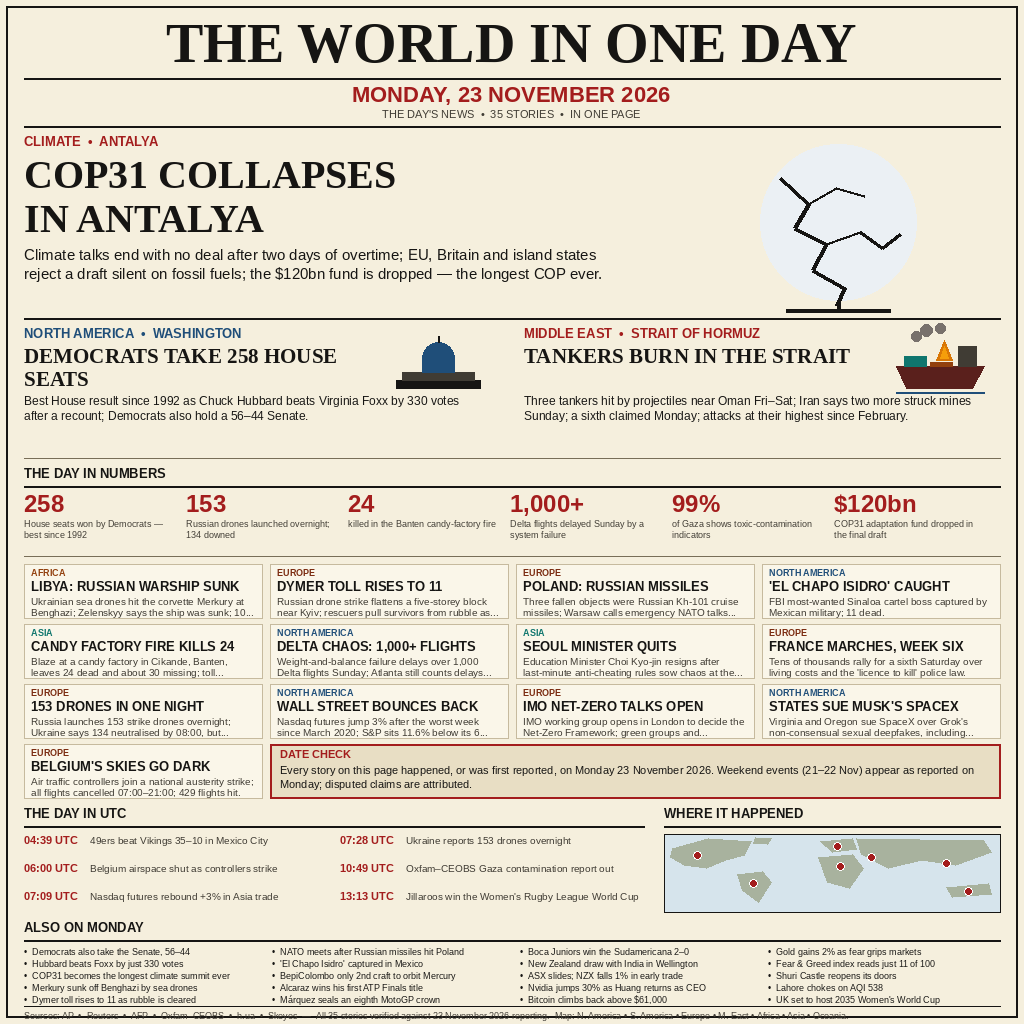
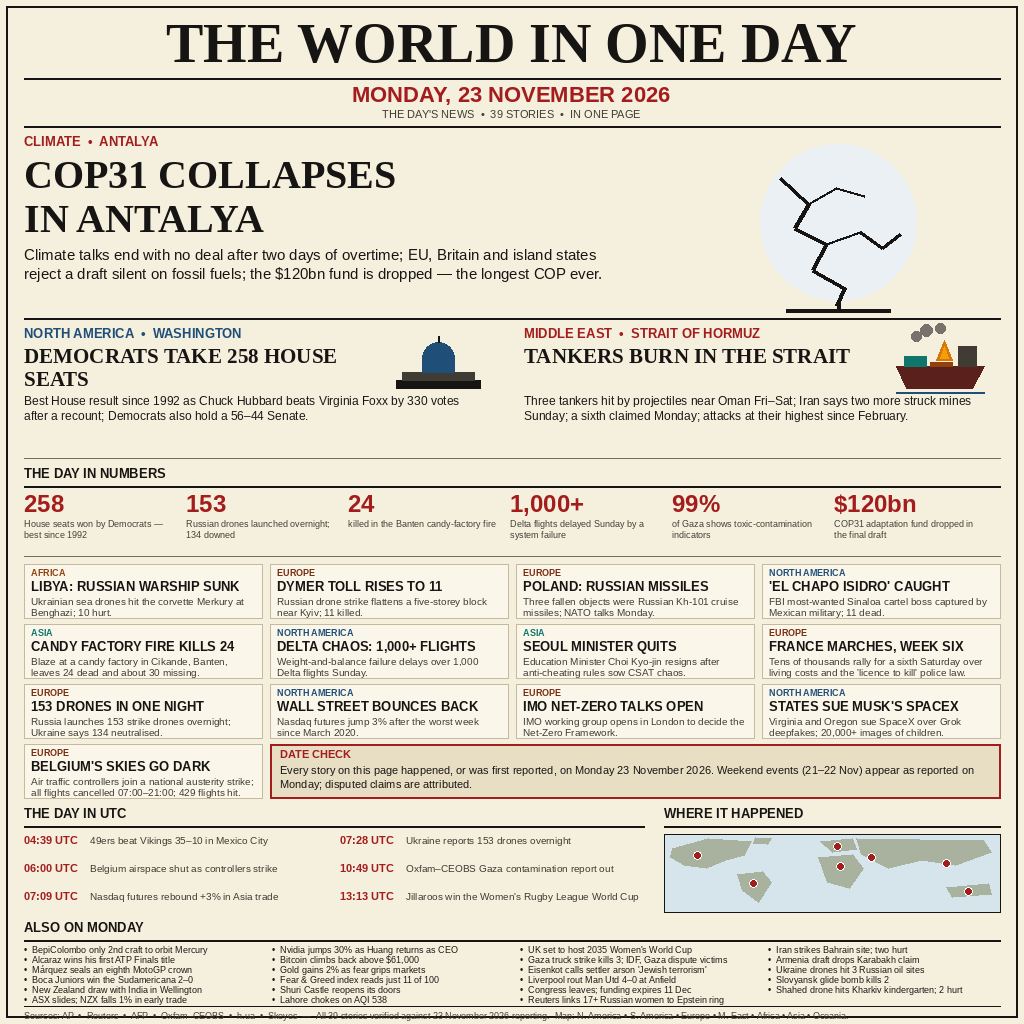
news-image-20261123 r3 fix: 39 stories, 10 decks closed, 7 dup ALSO ON removed
- ALSO ON: remove 7 duplicates of big/card stories; add 10 missing
  fact-sheet stories (#14 Gaza, #15 Eisenkot, #17 Liverpool, #20 Congress,
  #21 Epstein, #23 Iran-Bahrain, #26 Armenia, #28 Ukraine oil, #29 Slovyansk,
  #30 Kharkiv kindergarten) -> 23 items, 6 rows
- Close 10 truncated card decks to complete sentences (2 lines, end '.')
- Masthead + footer + README claim corrected 35 -> 39 stories
  (3 big + 13 cards + 23 ALSO ON lines, line-count method)

diff --git a/draw_poster.py b/draw_poster.py
@@ -182,41 +182,37 @@ BIG = [
 
 CARDS = [
     ("AFRICA", "LIBYA: RUSSIAN WARSHIP SUNK",
-     "Ukrainian sea drones hit the corvette Merkury at Benghazi; Zelenskyy "
-     "says the ship was sunk; 10 hurt."),
+     "Ukrainian sea drones hit the corvette Merkury at Benghazi; 10 hurt."),
     ("EUROPE", "DYMER TOLL RISES TO 11",
-     "Russian drone strike flattens a five-storey block near Kyiv; rescuers "
-     "pull survivors from rubble as the toll climbs to 11."),
+     "Russian drone strike flattens a five-storey block near Kyiv; "
+     "11 killed."),
     ("EUROPE", "POLAND: RUSSIAN MISSILES",
-     "Three fallen objects were Russian Kh-101 cruise missiles; Warsaw "
-     "calls emergency NATO talks for Monday."),
+     "Three fallen objects were Russian Kh-101 cruise missiles; NATO "
+     "talks Monday."),
     ("NORTH AMERICA", "'EL CHAPO ISIDRO' CAUGHT",
      "FBI most-wanted Sinaloa cartel boss captured by Mexican military; "
      "11 dead."),
     ("ASIA", "CANDY FACTORY FIRE KILLS 24",
      "Blaze at a candy factory in Cikande, Banten, leaves 24 dead and about "
-     "30 missing; toll confirmed Monday."),
+     "30 missing."),
     ("NORTH AMERICA", "DELTA CHAOS: 1,000+ FLIGHTS",
-     "Weight-and-balance failure delays over 1,000 Delta flights Sunday; "
-     "Atlanta still counts delays Monday."),
+     "Weight-and-balance failure delays over 1,000 Delta flights Sunday."),
     ("ASIA", "SEOUL MINISTER QUITS",
-     "Education Minister Choi Kyo-jin resigns after last-minute anti-"
-     "cheating rules sow chaos at the CSAT exam."),
+     "Education Minister Choi Kyo-jin resigns after anti-cheating rules "
+     "sow CSAT chaos."),
     ("EUROPE", "FRANCE MARCHES, WEEK SIX",
      "Tens of thousands rally for a sixth Saturday over living costs and "
      "the 'licence to kill' police law."),
     ("EUROPE", "153 DRONES IN ONE NIGHT",
      "Russia launches 153 strike drones overnight; Ukraine says 134 "
-     "neutralised by 08:00, but impacts hit 11 sites."),
+     "neutralised."),
     ("NORTH AMERICA", "WALL STREET BOUNCES BACK",
-     "Nasdaq futures jump 3% after the worst week since March 2020; S&P "
-     "sits 11.6% below its 6 October record."),
+     "Nasdaq futures jump 3% after the worst week since March 2020."),
     ("EUROPE", "IMO NET-ZERO TALKS OPEN",
-     "IMO working group opens in London to decide the Net-Zero Framework; "
-     "green groups and shipowners demand adoption."),
+     "IMO working group opens in London to decide the Net-Zero Framework."),
     ("NORTH AMERICA", "STATES SUE MUSK'S SPACEX",
-     "Virginia and Oregon sue SpaceX over Grok's non-consensual sexual "
-     "deepfakes, including 20,000+ images of children."),
+     "Virginia and Oregon sue SpaceX over Grok deepfakes; 20,000+ images "
+     "of children."),
     ("EUROPE", "BELGIUM'S SKIES GO DARK",
      "Air traffic controllers join a national austerity strike; all flights "
      "cancelled 07:00–21:00; 429 flights hit."),
@@ -241,13 +237,6 @@ TIMELINE = [
 ]
 
 ALSO_ON = [
-    "Democrats also take the Senate, 56–44",
-    "Hubbard beats Foxx by just 330 votes",
-    "COP31 becomes the longest climate summit ever",
-    "Merkury sunk off Benghazi by sea drones",
-    "Dymer toll rises to 11 as rubble is cleared",
-    "NATO meets after Russian missiles hit Poland",
-    "'El Chapo Isidro' captured in Mexico",
     "BepiColombo only 2nd craft to orbit Mercury",
     "Alcaraz wins his first ATP Finals title",
     "Márquez seals an eighth MotoGP crown",
@@ -261,6 +250,16 @@ ALSO_ON = [
     "Shuri Castle reopens its doors",
     "Lahore chokes on AQI 538",
     "UK set to host 2035 Women's World Cup",
+    "Gaza truck strike kills 3; IDF, Gaza dispute victims",
+    "Eisenkot calls settler arson 'Jewish terrorism'",
+    "Liverpool rout Man Utd 4–0 at Anfield",
+    "Congress leaves; funding expires 11 Dec",
+    "Reuters links 17+ Russian women to Epstein ring",
+    "Iran strikes Bahrain site; two hurt",
+    "Armenia draft drops Karabakh claim",
+    "Ukraine drones hit 3 Russian oil sites",
+    "Slovyansk glide bomb kills 2",
+    "Shahed drone hits Kharkiv kindergarten; 2 hurt",
 ]
 
 
@@ -285,7 +284,7 @@ def main():
     d.text(((W - d.textlength(date, font=f_date)) // 2, 82), date,
            font=f_date, fill=RED)
     f_sub = font(SANS, 11)
-    sub = "THE DAY'S NEWS  •  35 STORIES  •  IN ONE PAGE"
+    sub = "THE DAY'S NEWS  •  39 STORIES  •  IN ONE PAGE"
     d.text(((W - d.textlength(sub, font=f_sub)) // 2, 108), sub,
            font=f_sub, fill=INK_SOFT)
     hrule(d, 24, W - 24, 126, fill=INK, width=2)
@@ -389,12 +388,12 @@ def main():
     ay = 920
     section_head(d, 24, ay, "ALSO ON MONDAY", W - 48)
     f_ao = font(SANS, 9)
-    cols, rows = 4, 5
+    cols, rows = 4, 6
     ao_w = (W - 48 - 3 * 16) // cols
     for i, item in enumerate(ALSO_ON):
         col, row = divmod(i, rows)
         x = 24 + col * (ao_w + 16)
-        yy = ay + 26 + row * 12
+        yy = ay + 24 + row * 10
         line = "•  " + item
         if d.textlength(line, font=f_ao) > ao_w:
             while line and d.textlength(line + "…", font=f_ao) > ao_w:
@@ -407,7 +406,7 @@ def main():
     hrule(d, 24, W - 24, fy, fill=INK, width=1)
     f_ft = font(SANS, 9)
     foot = ("Sources: AP  •  Reuters  •  AFP  •  Oxfam–CEOBS  •  h.ua  •  "
-            "Skeyes  —  All 35 stories verified against 23 November 2026 "
+            "Skeyes  —  All 39 stories verified against 23 November 2026 "
             "reporting.  Map: N. America • S. America • Europe • M. East • "
             "Africa • Asia • Oceania.")
     d.text((24, fy + 4), foot, font=f_ft, fill=INK_SOFT)

diff --git a/README.md b/README.md
@@ -5,7 +5,7 @@
 [![reward](https://make.fun/badge/news-image-20261123/revan997/news-image-20261123-r3/reward.svg)](https://make.fun/bounty/news-image-20261123)
 
 A one-page newspaper front page summing up the world's news of Monday,
-23 November 2026 — 35 verified stories in a single 1024×1024 image.
+23 November 2026 — 39 verified stories in a single 1024×1024 image.
 
 ## The image
 
@@ -17,7 +17,7 @@ A one-page newspaper front page summing up the world's news of Monday,
   in the Banten factory fire, 1,000+ Delta flights delayed, 99% of Gaza
   contaminated, $120bn COP31 fund dropped.
 - **13 more stories** in cards, a UTC timeline of the day, a world map of
-  where it happened (7 regions), and 20 more in "Also on Monday".
+  where it happened (7 regions), and 23 more in "Also on Monday".
 - **Date check:** every story on the page happened, or was first reported,
   on Monday 23 November 2026. Weekend events (21–22 Nov) appear as reported
   on Monday; disputed claims are attributed.
